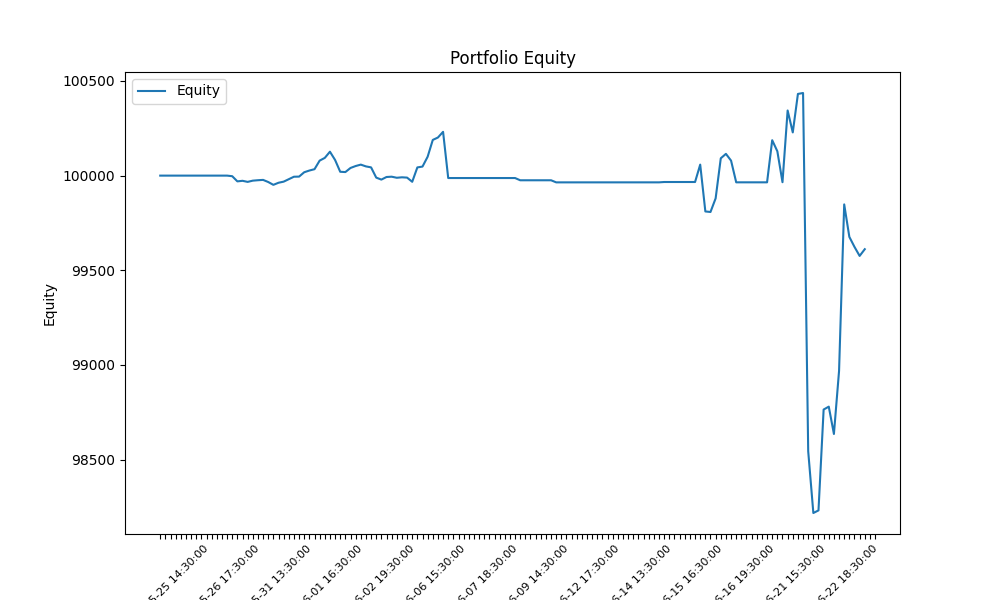
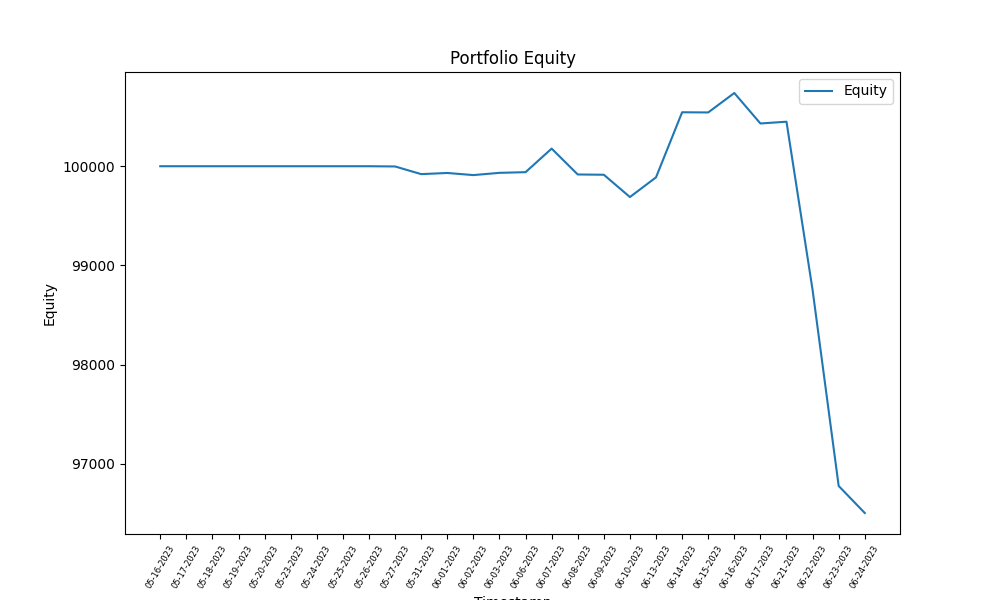
updated portfolio hist. start screener

diff --git a/src/components/techanalysis/screener.py b/src/components/techanalysis/screener.py
@@ -6,31 +6,48 @@ import config, json, requests, math, random, app, ast, re
 import components.techanalysis.ta_indicators as ta
 from threading import Lock
 from alpaca.data import StockBarsRequest, TimeFrame, TimeFrameUnit, StockHistoricalDataClient, BaseBarsRequest
-from datetime import datetime
+from datetime import datetime, timedelta
+from tradingview_screener import Scanner, Query, Column
 
-api = StockHistoricalDataClient(config.API_KEY, config.API_SECRET)
+
 start_date = datetime(2022, 6, 1)
-end_date= datetime(2023, 1, 1)
-window_size = 150
-params = BaseBarsRequest(symbol_or_symbols="SPY", start=start_date, end=end_date, limit=window_size*2, timeframe=TimeFrame(1,TimeFrameUnit.Day))
+end_date = datetime.today() - timedelta(minutes=15)
+window_size = 3
+
+# Testing trading view module
+q = Query().select('name', 'close', 'volume', 'relative_volume_10d_calc')\
+    .where(
+        Column('market_cap_basic').between(1_000_000, 50_000_000), 
+        Column('relative_volume_10d_calc') > 1.2, 
+        Column('MACD.macd') >= 'MACD.signal'
+    )\
+    .order_by('volume', ascending=False)
+df = q.get_scanner_data()
+
 
 
 
 
 def test():
-    bars = api.get_stock_bars(params)
-
-    dataset = BarDataset()
-    dataset.organize_bars(dataset.clean_bars(bars))
+    dataset = BarDataset("SPY",window_size)
+    dataset.organize_bars()
     data = dataset.get_data()
-    sma = ta.calculate_sma(data[0], window_size=window_size, parameter_index='close')  # Calculate SMA for the first parameter
-    print(sma)
+    print(df)
     return data
 
 
 
 class BarDataset:
-    def __init__(self):
+    def __init__(self, ticker,candles):
+        self.api = StockHistoricalDataClient(config.API_KEY, config.API_SECRET)
+        # 15min lag for free subscriptions
+        self.params = BaseBarsRequest(
+            symbol_or_symbols=ticker,
+            start=start_date,
+            #end=end_date,
+            limit=candles,
+            timeframe=TimeFrame(1,TimeFrameUnit.Day)
+            )
         self.data = {}
     
     def add_bar(self, bar):
@@ -41,22 +58,31 @@ class BarDataset:
     
     def clean_bars(self, payload):
         payload = str(payload)
-        # Clean the payload string
         payload = payload.replace("data=", "").strip()
-        # Replace datetime objects with their string representations
-        payload = re.sub(r"datetime.datetime\(([^)]*)\)", r'"\1"', payload)
+        payload = payload.replace(", tzinfo=datetime.timezone.utc", "").strip()
+        # Remove the newline characters and replace single quotes with double quotes
+        payload = payload.replace("\n", "").replace("'", '"')
+        # Identify datetime strings and convert them to ISO 8601 format
+        payload = re.sub(r"datetime\.datetime\((.*?)\)", r'"\1"', payload)
         # Convert the cleaned payload to a dictionary
         payload_dict = ast.literal_eval(payload)
-        # Convert the dictionary to a JSON string
         json_str = json.dumps(payload_dict)
         return payload_dict
-    
-    def organize_bars(self, payload):
-        cleaned_payload = self.clean_bars(payload)
+
+    def organize_bars(self):
+        bars = self.api.get_stock_bars(self.params)
+        cleaned_payload = self.clean_bars(bars)
         for symbol, bars in cleaned_payload.items():
             for bar in bars:
+                timestamp_str = bar['timestamp']
+                timestamp = datetime.strptime(timestamp_str, "%Y, %m, %d, %H, %M")
+                bar['timestamp'] = timestamp.strftime("%Y-%m-%dT%H:%M:%S")
                 self.add_bar(bar)
 
+
     def get_data(self):
-        #return self.data
         return list(self.data.values())
+    
+
+
+

diff --git a/src/components/portfolio.py b/src/components/portfolio.py
@@ -1,45 +1,64 @@
-import requests, config, os, datetime
+import requests, config, os
 import matplotlib.pyplot as plt
+from datetime import datetime, timedelta
 
-# Set the base URL for the Alpaca Trading API
+# Set Alpaca Trading API
 base_url = 'https://paper-api.alpaca.markets'
-
-# Set the endpoint for getting portfolio history
 endpoint = '/v2/account/portfolio/history'
-
-# Set the parameters for the request
-params = {
-    'period': '30D',  # Specify the desired time period (e.g., '1D', '1W', '1M')
-    'timeframe': '1H'  # Specify the time interval of each data element (e.g., '1D', '1H', '15Min')
-}
-
-# Set the headers for the request
 headers = {
     'APCA-API-KEY-ID': config.API_KEY,
     'APCA-API-SECRET-KEY': config.API_SECRET
 }
 
+# Date range for the portfolio request
+end_date = datetime.today()
+start_date = datetime(2023, 5, 17)
 
+
+def get_params(start_date, end_date):
+    # Calculate the duration of the date range in days
+    duration = (end_date - start_date).days
+    print(duration)
+
+    if duration <= 30:
+        periodPD = '{}D'.format(duration)
+    elif duration <= 90:
+        periodPD = '{}W'.format(round(duration/7))
+    else:
+        periodPD = '{}M'.format(round(duration/30))
+
+    if periodPD.endswith('D'):
+        unitPD = '15Min'
+    else:
+        unitPD = '1D'
+
+    # Set the parameters for the request
+    params = {
+        'period': periodPD,
+        'timeframe': unitPD
+    }
+    print(params)
+    return params
 
 def request_portfolio_history():
-    # Send the GET request to the Alpaca Trading API
+    params=get_params(start_date, end_date)
     response = requests.get(
         base_url + endpoint,
-        params=params,
+        params,
         headers=headers
     )
 
-    # Check if the request was successful
     if response.status_code == 200:
-        # Parse the response JSON
         portfolio_history = response.json()
-
         # Reformat the timestamps
         timestamps = portfolio_history['timestamp']
         formatted_timestamps = []
 
         for timestamp in timestamps:
-            formatted_timestamp = datetime.datetime.fromtimestamp(timestamp).strftime('%Y-%m-%d %H:%M:%S')
+            if params['period'].endswith('D'):
+                formatted_timestamp = datetime.fromtimestamp(timestamp).strftime('%m-%d-%Y %H:%M:%S')
+            else:
+                formatted_timestamp = datetime.fromtimestamp(timestamp).strftime('%m-%d-%Y')
             formatted_timestamps.append(formatted_timestamp)
 
         portfolio_history['timestamp'] = formatted_timestamps
@@ -66,10 +85,13 @@ def graph(plot_filename):
     plt.title('Portfolio Equity')
     plt.legend()
 
+
     # Alternatively, skip every other label
-    plt.xticks(range(len(timestamps)), timestamps, rotation=45, fontsize=8)
+    num_ticks = len(timestamps)
+    display_ticks = 20
+    plt.xticks(range(len(timestamps)), timestamps, rotation=60, fontsize=6)
     for i, label in enumerate(plt.gca().xaxis.get_ticklabels()):
-        if i % 10 == 1:
+        if i % (num_ticks // display_ticks) == 0:
             label.set_visible(True)
         else:
             label.set_visible(False)

diff --git a/src/components/vars.py b/src/components/vars.py
@@ -11,6 +11,15 @@ def webhook(webhook_message):
 
         return symbol_WH,side_WH,price_WH,quantity_WH,comment_WH,orderID_WH
 
+def portfolioData(portfolio_history):
+    timestamps = portfolio_history['timestamp']
+    equity = portfolio_history['equity']
+    profit_loss = portfolio_history['profit_loss']
+    profit_loss_pct = portfolio_history['profit_loss_pct']
+
+    return timestamps, equity, profit_loss, profit_loss_pct
+
+
 def extract_order_response(response):
     if isinstance(response, Order):
         response_dict = {

diff --git a/src/components/orderlogic.py b/src/components/orderlogic.py
@@ -40,7 +40,6 @@ def checkOpenOrder(ticker, side):
     response = f"Checked {counter} open order(s) for symbol {ticker}"
     print(response)
     return canceled_orders
-
     
 
 def checkAssetClass(ticker):
